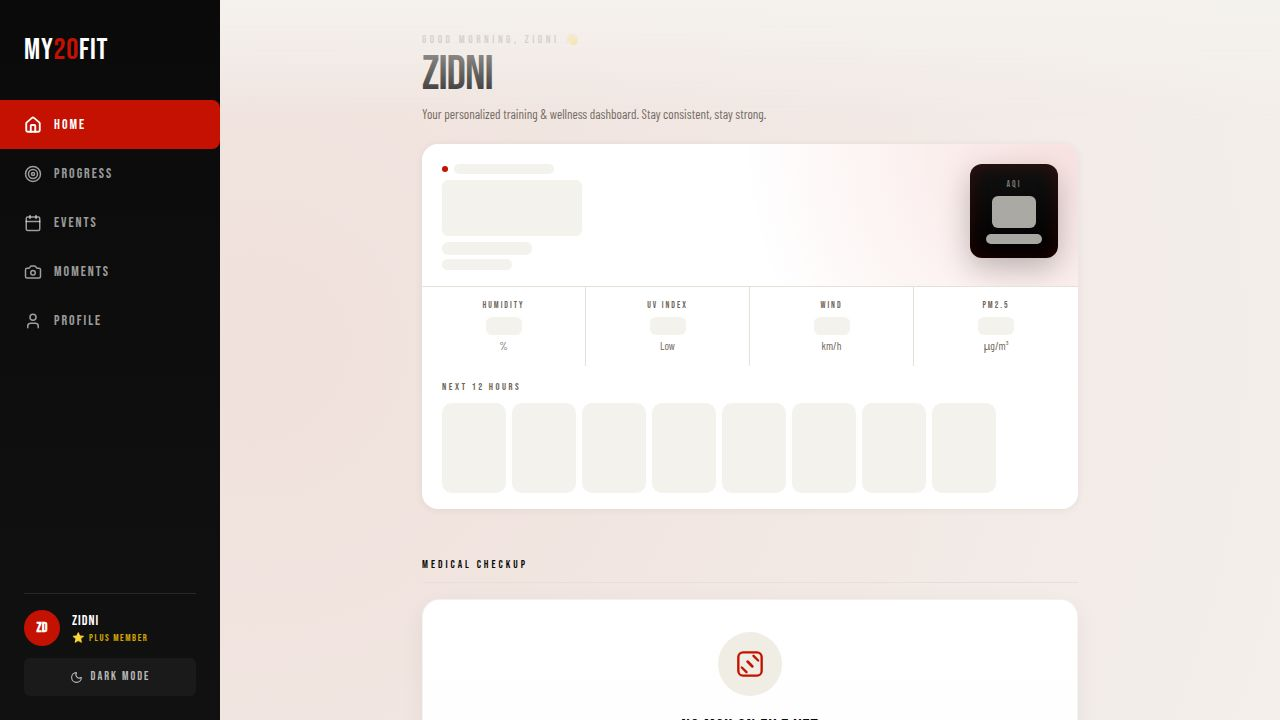
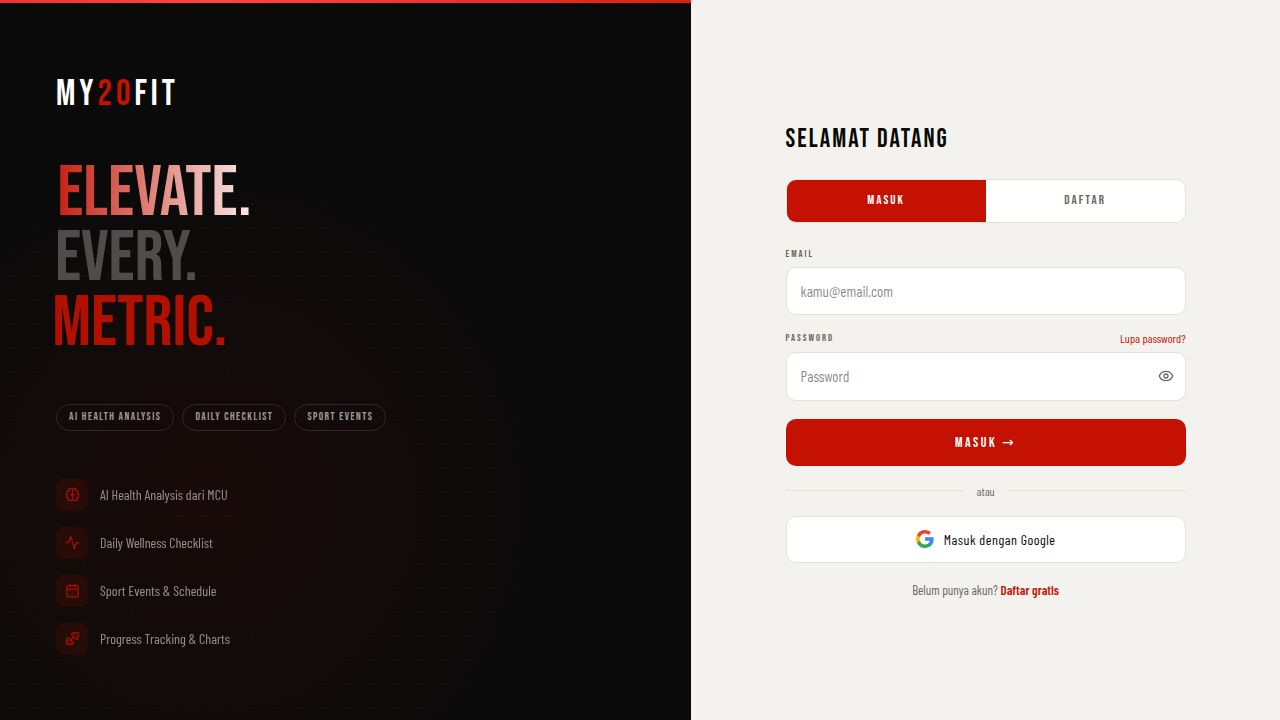
Update Google OAuth redirect URLs to use base URL
Adjusted OAuth redirect configurations in Login.tsx to correctly handle base URL paths for Supabase authentication.

Replit-Commit-Author: Agent
Replit-Commit-Session-Id: 06375172-0a28-4388-af18-e52dfccf209d
Replit-Commit-Checkpoint-Type: full_checkpoint
Replit-Commit-Event-Id: 52dd3b63-69d3-4ff9-8943-d52778bd9f68
Replit-Commit-Screenshot-Url: https://storage.googleapis.com/screenshot-production-us-central1/efbf06f6-4570-42b1-880a-a32218428432/06375172-0a28-4388-af18-e52dfccf209d/Z0qK4s4
Replit-Helium-Checkpoint-Created: true

diff --git a/artifacts/my20fit/src/pages/Login.tsx b/artifacts/my20fit/src/pages/Login.tsx
@@ -132,7 +132,7 @@ export default function Login() {
     setError(null);
     const { error: err } = await supabase.auth.signInWithOAuth({
       provider: "google",
-      options: { redirectTo: window.location.origin + "/" },
+      options: { redirectTo: window.location.origin + import.meta.env.BASE_URL },
     });
     if (err) setError(err.message);
   }
@@ -142,7 +142,7 @@ export default function Login() {
     setLoading(true); setError(null);
     try {
       const { error: err } = await supabase.auth.resetPasswordForEmail(forgotEmail, {
-        redirectTo: window.location.origin + "/reset-password",
+        redirectTo: window.location.origin + import.meta.env.BASE_URL + "reset-password",
       });
       if (err) { setError(err.message); return; }
       setForgotSuccess(true);